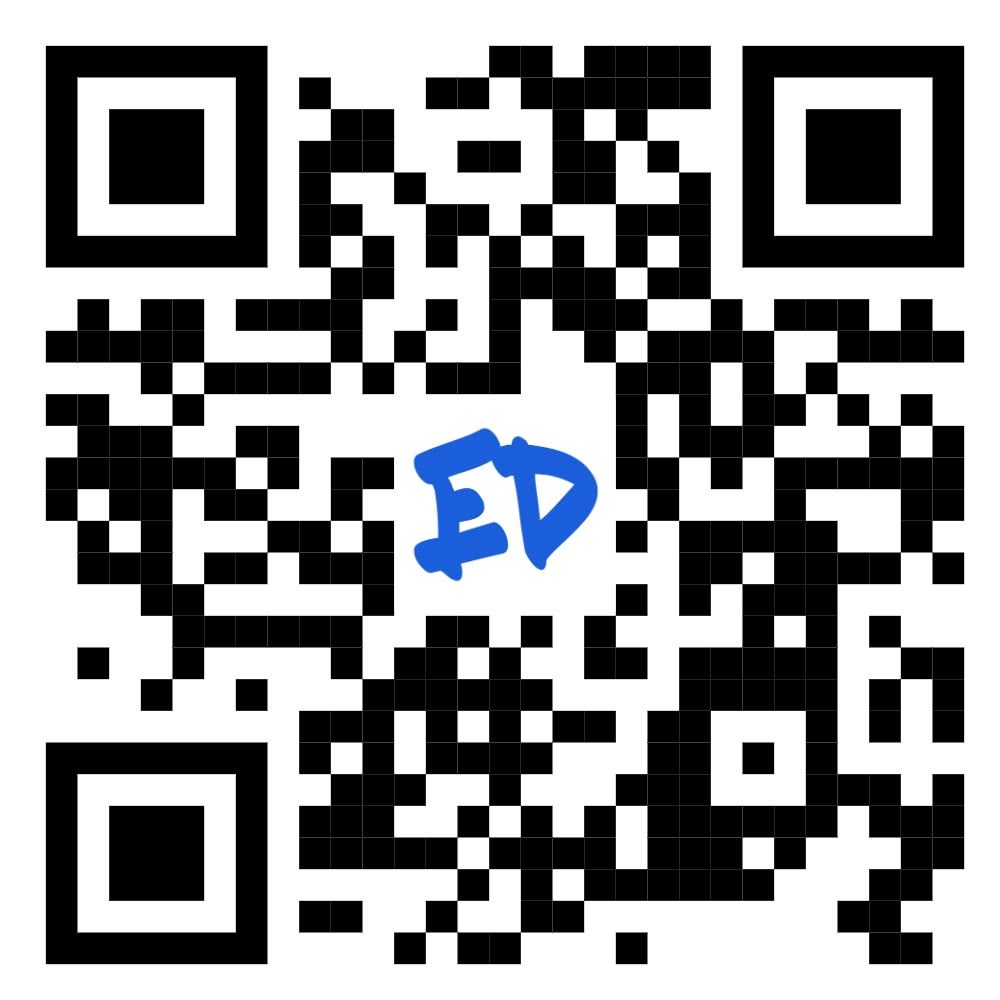
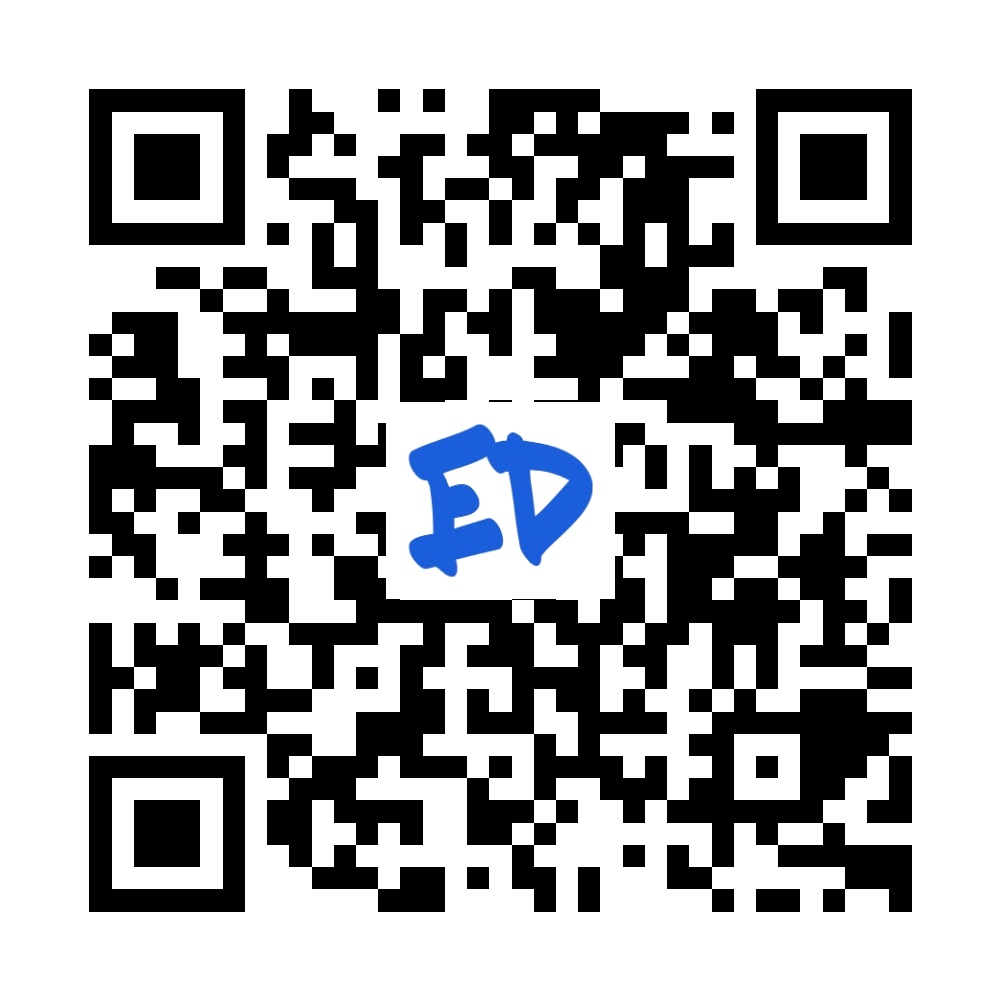
Self-host the app download link and QR; add the QR to parent invitations
App download page
- New /app route (DeepLinkController::appDownload): iPhone/iPad go to the
  App Store, Android to Google Play, anything else (or ?show) gets a landing
  page with both store badges. iPadOS is caught client-side. no-store caching.
- deeplink.app_download_url (DEEPLINK_APP_DOWNLOAD_URL) defaults to
  {public_base_url}/app.

QR code
- Replace teacher-app-download-qr.jpeg with a QR for
  https://admin.empoweredhealth.asia/app (same ED logo), so it no longer
  depends on the paid me-qr dynamic link. Every email, the admin preview and
  the parent PDF letter read this file.

Parent invitation
- school_parent_invited now carries the app QR block, and its "Get the app"
  button links to the download page instead of the marketing site.
- Template moved to Emails\ParentInvitedTemplate with the QR marker; a
  migration refreshes the stored row (it is gated from the admin panel, so
  holds no admin edits).

Tests cover the download page redirects/landing page and the invitation's QR
and button link.

diff --git a/resources/views/deeplink/app-download.blade.php b/resources/views/deeplink/app-download.blade.php
@@ -1,0 +1,102 @@
+<!DOCTYPE html>
+<html lang="en">
+<head>
+    <meta charset="utf-8">
+    <meta name="viewport" content="width=device-width, initial-scale=1">
+    <meta name="theme-color" content="#1D59F9">
+    <title>EmpowerED Health</title>
+    <meta name="description" content="EmpowerED is the ultimate health and well-being app for teens aged 11–18, parents, and schools.">
+    <link rel="icon" href="{{ $appIcon }}">
+    <style>
+        * { box-sizing: border-box; }
+        body {
+            margin: 0;
+            min-height: 100vh;
+            background: #1D59F9;
+            font-family: -apple-system, BlinkMacSystemFont, "Segoe UI", Lato, Roboto, Helvetica, Arial, sans-serif;
+            color: #1f2430;
+        }
+        .band { height: 140px; background: linear-gradient(180deg, #1238c9 0%, #1D59F9 100%); }
+        .card {
+            position: relative;
+            max-width: 480px;
+            min-height: calc(100vh - 100px);
+            margin: -60px auto 0;
+            padding: 72px 24px 40px;
+            background: #fff;
+            border-radius: 24px 24px 0 0;
+            text-align: center;
+        }
+        .icon {
+            position: absolute;
+            top: -56px;
+            left: 50%;
+            transform: translateX(-50%);
+            width: 112px;
+            height: 112px;
+            padding: 12px;
+            background: #fff;
+            border-radius: 20px;
+            box-shadow: 0 8px 24px rgba(16, 24, 64, .18);
+        }
+        .icon img { width: 100%; height: 100%; border-radius: 12px; display: block; }
+        .category {
+            margin: 8px 0 6px;
+            font-size: 12px;
+            font-weight: 700;
+            letter-spacing: .08em;
+            color: #1D59F9;
+        }
+        h1 { margin: 0 0 12px; font-size: 22px; }
+        p.desc { margin: 0 auto 28px; max-width: 320px; font-size: 15px; line-height: 1.55; color: #4a5162; }
+        .stores { display: flex; flex-direction: column; align-items: center; gap: 12px; }
+        .store {
+            display: flex;
+            align-items: center;
+            gap: 10px;
+            width: 200px;
+            padding: 8px 16px;
+            background: #000;
+            color: #fff;
+            border-radius: 10px;
+            text-decoration: none;
+            text-align: left;
+        }
+        .store svg { width: 28px; height: 28px; flex: none; }
+        .store small { display: block; font-size: 10px; line-height: 1.1; }
+        .store strong { display: block; font-size: 19px; line-height: 1.15; font-weight: 600; }
+        .site { display: inline-block; margin-top: 36px; color: #1D59F9; font-weight: 700; text-decoration: none; }
+    </style>
+</head>
+<body>
+    <div class="band"></div>
+    <main class="card">
+        <div class="icon"><img src="{{ $appIcon }}" alt="EmpowerED Health"></div>
+        <div class="category">HEALTH</div>
+        <h1>EmpowerED Health</h1>
+        <p class="desc">EmpowerED is the ultimate health and well-being app for teens aged 11–18, parents, and schools.</p>
+
+        <div class="stores">
+            <a class="store" href="{{ $iosStoreUrl }}">
+                <svg viewBox="0 0 200 200" aria-hidden="true"><path fill="#fff" d="M136.4 53.5c-15.8 0-22.4 7.5-33.4 7.5-11.2 0-19.8-7.5-33.5-7.5-13.4 0-27.6 8.2-36.6 22.1-12.7 19.6-10.6 56.5 10 87.9 7.4 11.3 17.2 23.9 30.1 24h.2c11.2 0 14.5-7.3 29.9-7.4h.2c15.2 0 18.2 7.4 29.4 7.4h.2c12.9-.1 23.2-14.1 30.6-25.3 5.3-8.1 7.3-12.1 11.3-21.2-29.8-11.3-34.5-53.5-5.1-69.7-9-11.2-21.6-17.8-33.5-17.8zM132.9 12.5c-9.4.6-20.3 6.6-26.7 14.4-5.8 7.1-10.6 17.5-8.7 27.7h.7c10 0 20.2-6 26.2-13.7 5.7-7.3 10.1-17.7 8.5-28.4z"/></svg>
+                <span><small>Download on the</small><strong>App Store</strong></span>
+            </a>
+            <a class="store" href="{{ $androidStoreUrl }}">
+                <svg viewBox="0 0 200 200" aria-hidden="true"><path fill="#34A853" d="M56.2 16.7c-11.2-6.3-24.5-1-29.3 9.6l73.6 73.7 37.6-37.6z"/><path fill="#EA4336" d="M138.1 137.6 100.5 100l-73.6 73.7c4.8 10.6 18.1 15.9 29.3 9.6z"/><path fill="#FABD05" d="M172.6 118.3c7.1-4 10.7-11.1 10.7-18.3s-3.6-14.3-10.7-18.3l-34.5-19.3-37.6 37.6 37.6 37.6z"/><path fill="#4285F4" d="M26.9 26.3c-1.2 2.6-1.9 5.6-1.9 8.7v130c0 3.2.7 6.1 1.9 8.7l73.6-73.7z"/></svg>
+                <span><small>GET IT ON</small><strong>Google Play</strong></span>
+            </a>
+        </div>
+
+        <a class="site" href="{{ $webFallbackUrl }}/">{{ preg_replace('#^https?://#', '', $webFallbackUrl) }}</a>
+    </main>
+
+    @if ($autoRedirect)
+        <script>
+            // iPadOS Safari reports a desktop Mac user agent, so the server can't spot it.
+            if (navigator.platform === 'MacIntel' && navigator.maxTouchPoints > 1) {
+                window.location.replace({!! json_encode($iosStoreUrl, JSON_UNESCAPED_SLASHES | JSON_HEX_TAG | JSON_HEX_AMP) !!});
+            }
+        </script>
+    @endif
+</body>
+</html>

diff --git a/tests/Feature/AppDownloadPageTest.php b/tests/Feature/AppDownloadPageTest.php
@@ -1,0 +1,50 @@
+<?php
+
+namespace Tests\Feature;
+
+use Tests\TestCase;
+
+class AppDownloadPageTest extends TestCase
+{
+    private const IPHONE = 'Mozilla/5.0 (iPhone; CPU iPhone OS 17_0 like Mac OS X) AppleWebKit/605.1.15 Mobile/15E148';
+    private const ANDROID = 'Mozilla/5.0 (Linux; Android 14; Pixel 8) AppleWebKit/537.36 Chrome/120 Mobile Safari/537.36';
+    private const DESKTOP = 'Mozilla/5.0 (Windows NT 10.0; Win64; x64) AppleWebKit/537.36 Chrome/120 Safari/537.36';
+
+    public function test_iphone_is_sent_to_the_app_store(): void
+    {
+        $response = $this->withHeader('User-Agent', self::IPHONE)->get('/app');
+
+        $response->assertRedirect(config('deeplink.ios_store_url'));
+        $this->assertStringContainsString('id6742772237', $response->headers->get('Location'));
+        $this->assertStringContainsString('no-store', $response->headers->get('Cache-Control'));
+    }
+
+    public function test_android_is_sent_to_google_play(): void
+    {
+        $response = $this->withHeader('User-Agent', self::ANDROID)->get('/app');
+
+        $response->assertRedirect(config('deeplink.android_store_url'));
+        $this->assertStringContainsString('asia.empoweredhealth', $response->headers->get('Location'));
+    }
+
+    public function test_desktop_gets_the_landing_page_with_both_stores(): void
+    {
+        $response = $this->withHeader('User-Agent', self::DESKTOP)->get('/app');
+
+        $response->assertOk();
+        $response->assertSee(config('deeplink.ios_store_url'), false);
+        $response->assertSee(config('deeplink.android_store_url'), false);
+        $response->assertSee('empoweredhealth.asia', false);
+        $response->assertSee('App Store', false);
+        $response->assertSee('Google Play', false);
+    }
+
+    public function test_show_param_skips_the_redirect_on_a_phone(): void
+    {
+        $response = $this->withHeader('User-Agent', self::IPHONE)->get('/app?show=1');
+
+        $response->assertOk();
+        $response->assertSee('EmpowerED Health', false);
+        $response->assertDontSee('window.location.replace', false);
+    }
+}

diff --git a/database/seeders/SchoolEmailTemplateSeeder.php b/database/seeders/SchoolEmailTemplateSeeder.php
@@ -95,18 +95,11 @@ class SchoolEmailTemplateSeeder extends Seeder
                 'description' => \Database\Seeders\Emails\ParentSchoolCodeTemplate::html(),
             ],
 
+            // Carries the app QR block (see TeacherSignupEmail::TEMPLATES).
             'school_parent_invited' => [
-                'subject' => '{school_name} has invited you to EmpowerED',
-                'variables' => '{name},{school_name},{school_code},{app_link},{year}',
-                'description' => L::wrap(
-                    '{school_name} has invited you to EmpowerED',
-                    L::p('Hello {name}, your school has added you to its EmpowerED programme. Download the app and register using the school code below.')
-                    . L::rows(['School code' => '{school_code}'])
-                    . L::p('Register with <strong>the email address this invitation was sent to</strong>. Your school registered that address for you, and it is the only one that will be recognised for {school_name}.', true)
-                    . L::note('This invitation is for you alone and cannot be used by anyone else.'),
-                    ['label' => 'Get the app', 'url' => '{app_link}'],
-                    'You have been invited'
-                ),
+                'subject' => \Database\Seeders\Emails\ParentInvitedTemplate::SUBJECT,
+                'variables' => \Database\Seeders\Emails\ParentInvitedTemplate::VARIABLES,
+                'description' => \Database\Seeders\Emails\ParentInvitedTemplate::html(),
             ],
 
             'school_offroster_attempt' => [

diff --git a/app/Http/Controllers/DeepLinkController.php b/app/Http/Controllers/DeepLinkController.php
@@ -76,6 +76,39 @@ class DeepLinkController extends Controller
             ->header('Cache-Control', 'no-store');
     }
 
+    /**
+     * Target of the app-download QR code. Phones go straight to their store;
+     * everything else (and ?show) gets a landing page with both store badges.
+     * no-store so a proxy never hands one platform's redirect to another.
+     */
+    public function appDownload(Request $request)
+    {
+        $ios = (string) config('deeplink.ios_store_url');
+        $android = (string) config('deeplink.android_store_url');
+
+        if (! $request->has('show')) {
+            $ua = (string) $request->userAgent();
+
+            if (preg_match('/iPhone|iPad|iPod/i', $ua)) {
+                return redirect()->away($ios)->header('Cache-Control', 'no-store');
+            }
+
+            if (preg_match('/Android/i', $ua)) {
+                return redirect()->away($android)->header('Cache-Control', 'no-store');
+            }
+        }
+
+        return response()
+            ->view('deeplink.app-download', [
+                'iosStoreUrl' => $ios,
+                'androidStoreUrl' => $android,
+                'webFallbackUrl' => $this->webFallbackUrl(),
+                'appIcon' => (string) config('deeplink.app_icon'),
+                'autoRedirect' => ! $request->has('show'),
+            ])
+            ->header('Cache-Control', 'no-store');
+    }
+
     protected function webFallbackUrl(): string
     {
         $url = rtrim((string) config('deeplink.web_fallback_url'), '/');

diff --git a/database/migrations/2026_10_18_100000_add_app_qr_to_parent_invited_email_template.php b/database/migrations/2026_10_18_100000_add_app_qr_to_parent_invited_email_template.php
@@ -1,0 +1,48 @@
+<?php
+
+use Database\Seeders\Emails\ParentInvitedTemplate;
+use Illuminate\Database\Migrations\Migration;
+use Illuminate\Support\Facades\DB;
+use Illuminate\Support\Facades\Schema;
+
+return new class extends Migration
+{
+    /**
+     * Adds the app QR marker to the parent invitation. The layout has no
+     * </body>, so without the marker the QR block would land outside the card.
+     * Overwrites this one row (it is gated from the admin panel, so it carries
+     * no admin edits); the token list is unchanged.
+     */
+    public function up(): void
+    {
+        if (!Schema::hasTable('email_templates')) {
+            return;
+        }
+
+        $values = [
+            'subject' => ParentInvitedTemplate::SUBJECT,
+            'variables' => ParentInvitedTemplate::VARIABLES,
+            'description' => ParentInvitedTemplate::html(),
+            'active' => 1,
+            'updated_at' => now(),
+        ];
+
+        $updated = DB::table('email_templates')
+            ->where('variable_name', 'school_parent_invited')
+            ->where('language', 'english')
+            ->update($values);
+
+        if ($updated === 0) {
+            DB::table('email_templates')->insert($values + [
+                'variable_name' => 'school_parent_invited',
+                'language' => 'english',
+                'created_at' => now(),
+            ]);
+        }
+    }
+
+    public function down(): void
+    {
+        // Prior content cannot be reconstructed safely on rollback.
+    }
+};

diff --git a/database/seeders/Emails/ParentInvitedTemplate.php b/database/seeders/Emails/ParentInvitedTemplate.php
@@ -1,0 +1,32 @@
+<?php
+
+namespace Database\Seeders\Emails;
+
+use App\Services\TeacherSignupEmail;
+use Database\Seeders\Emails\BrandedEmailLayout as L;
+
+/**
+ * The roster invitation sent to one parent from the school screen. It carries
+ * the school code, the app QR and a "Get the app" button that opens the
+ * self-hosted download page ({app_link}).
+ */
+class ParentInvitedTemplate
+{
+    public const VARIABLES = '{name},{school_name},{school_code},{app_link},{year}';
+
+    public const SUBJECT = '{school_name} has invited you to EmpowerED';
+
+    public static function html(): string
+    {
+        return L::wrap(
+            '{school_name} has invited you to EmpowerED',
+            L::p('Hello {name}, your school has added you to its EmpowerED programme. Download the app and register using the school code below.')
+            . L::rows(['School code' => '{school_code}'])
+            . L::p('Register with <strong>the email address this invitation was sent to</strong>. Your school registered that address for you, and it is the only one that will be recognised for {school_name}.', true)
+            . TeacherSignupEmail::DOWNLOAD_MARKER
+            . L::note('This invitation is for you alone and cannot be used by anyone else.'),
+            ['label' => 'Get the app', 'url' => '{app_link}'],
+            'You have been invited'
+        );
+    }
+}

diff --git a/tests/Feature/School/SchoolEmailTemplateContractTest.php b/tests/Feature/School/SchoolEmailTemplateContractTest.php
@@ -210,6 +210,23 @@ class SchoolEmailTemplateContractTest extends TestCase
         $this->assertFullyRendered('school_parent_invited');
     }
 
+    public function test_parent_invitation_carries_the_qr_inside_the_card_and_links_to_the_download_page(): void
+    {
+        $school = School::factory()->create();
+        $invite = SchoolParentInvite::factory()->for($school)->create();
+
+        app(SchoolNotifier::class)->parentInvited($school, $invite);
+
+        $sent = collect($this->transport()->messages())->last()->getOriginalMessage();
+        $body = $sent->getHtmlBody();
+
+        $this->assertStringContainsString('Get the EmpowerED app', $body);
+        $this->assertStringContainsString('src="cid:', $body);
+        $this->assertCount(1, $sent->getAttachments());
+        $this->assertStringContainsString('href="' . config('deeplink.app_download_url') . '"', $body);
+        $this->assertLessThan(strpos($body, 'All rights reserved'), strpos($body, 'src="cid:'), 'The QR block must sit inside the branded card, not after it.');
+    }
+
     /**
      * The school's code is circulating, so attempts arrive in bursts. One notice
      * an hour, or the send - which runs inline on the register request - becomes

diff --git a/app/Services/School/SchoolNotifier.php b/app/Services/School/SchoolNotifier.php
@@ -158,9 +158,9 @@ class SchoolNotifier
             'name' => (string) ($invite->name ?: 'there'),
             'school_name' => (string) $school->name,
             'school_code' => (string) $school->school_code,
-            // The deeplink web fallback resolves to the right store for
-            // whichever device opens it, so one link serves iOS and Android.
-            'app_link' => (string) config('deeplink.web_fallback_url', config('app.url')),
+            // The self-hosted download page sends each phone to its own store,
+            // so one "Get the app" link serves iOS and Android.
+            'app_link' => (string) config('deeplink.app_download_url'),
             'year' => (string) date('Y'),
         ], 'english');
     }

diff --git a/config/deeplink.php b/config/deeplink.php
@@ -38,6 +38,16 @@ return [
 
     'web_fallback_url' => rtrim(env('DEEPLINK_WEB_FALLBACK_URL', 'https://empoweredhealth.asia'), '/'),
 
+    /*
+     * The self-hosted "get the app" page (DeepLinkController::appDownload):
+     * phones are sent to their store, anything else sees both store badges.
+     * The app-download QR image encodes this URL, so keep the path stable.
+     */
+    'app_download_url' => env(
+        'DEEPLINK_APP_DOWNLOAD_URL',
+        rtrim(env('DEEPLINK_PUBLIC_BASE_URL', 'https://admin.empoweredhealth.asia'), '/') . '/app'
+    ),
+
     'types' => ['article', 'podcast'],
 
 ];

diff --git a/routes/deeplink.php b/routes/deeplink.php
@@ -7,6 +7,8 @@ Route::get('.well-known/apple-app-site-association', [DeepLinkController::class,
 Route::get('apple-app-site-association', [DeepLinkController::class, 'appleAppSiteAssociation']);
 Route::get('.well-known/assetlinks.json', [DeepLinkController::class, 'assetLinks']);
 
+Route::get('app', [DeepLinkController::class, 'appDownload'])->name('app.download');
+
 Route::get('d/{type}/{id}', [DeepLinkController::class, 'fallback'])
     ->where(['type' => 'article|podcast', 'id' => '[0-9]+'])
     ->name('deeplink.fallback');

diff --git a/app/Http/Controllers/Admin/EmailTemplateController.php b/app/Http/Controllers/Admin/EmailTemplateController.php
@@ -205,6 +205,12 @@ class EmailTemplateController extends Controller
             }
         }
 
+        // The invitation's "Get the app" button opens the download page; the
+        // other templates use {app_link} for the website.
+        if ($var_name === 'school_parent_invited') {
+            $data['app_link'] = (string) config('deeplink.app_download_url');
+        }
+
         if ($var_name === 'school_student_credentials') {
             $data['attachments'] = [[
                 'name' => 'student-credentials.xlsx',

diff --git a/tests/Unit/StudentCredentialsEmailTest.php b/tests/Unit/StudentCredentialsEmailTest.php
@@ -119,6 +119,7 @@ class StudentCredentialsEmailTest extends TestCase
     {
         $this->assertTrue(TeacherSignupEmail::appliesTo('signup_teacher'));
         $this->assertTrue(TeacherSignupEmail::appliesTo('school_student_credentials'));
+        $this->assertTrue(TeacherSignupEmail::appliesTo('school_parent_invited'));
         $this->assertFalse(TeacherSignupEmail::appliesTo('signup_school_user'));
     }
 
